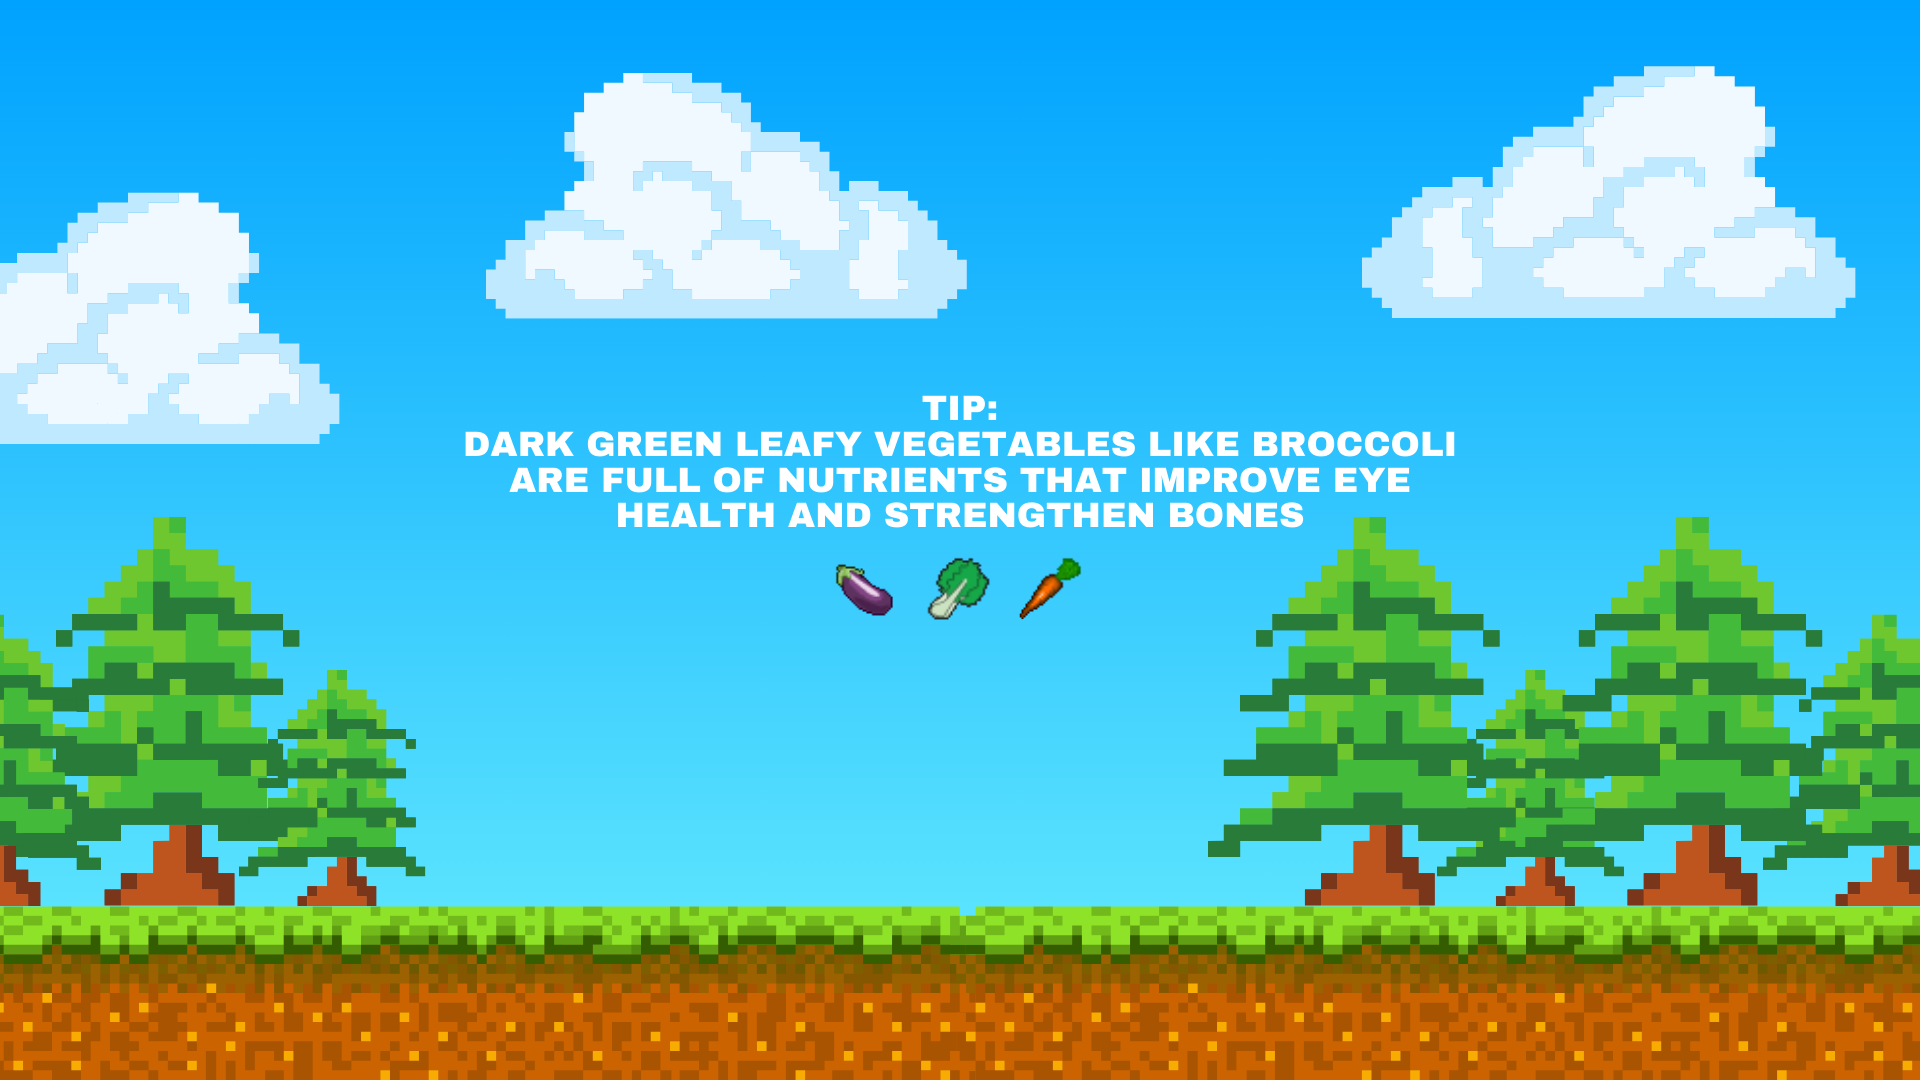
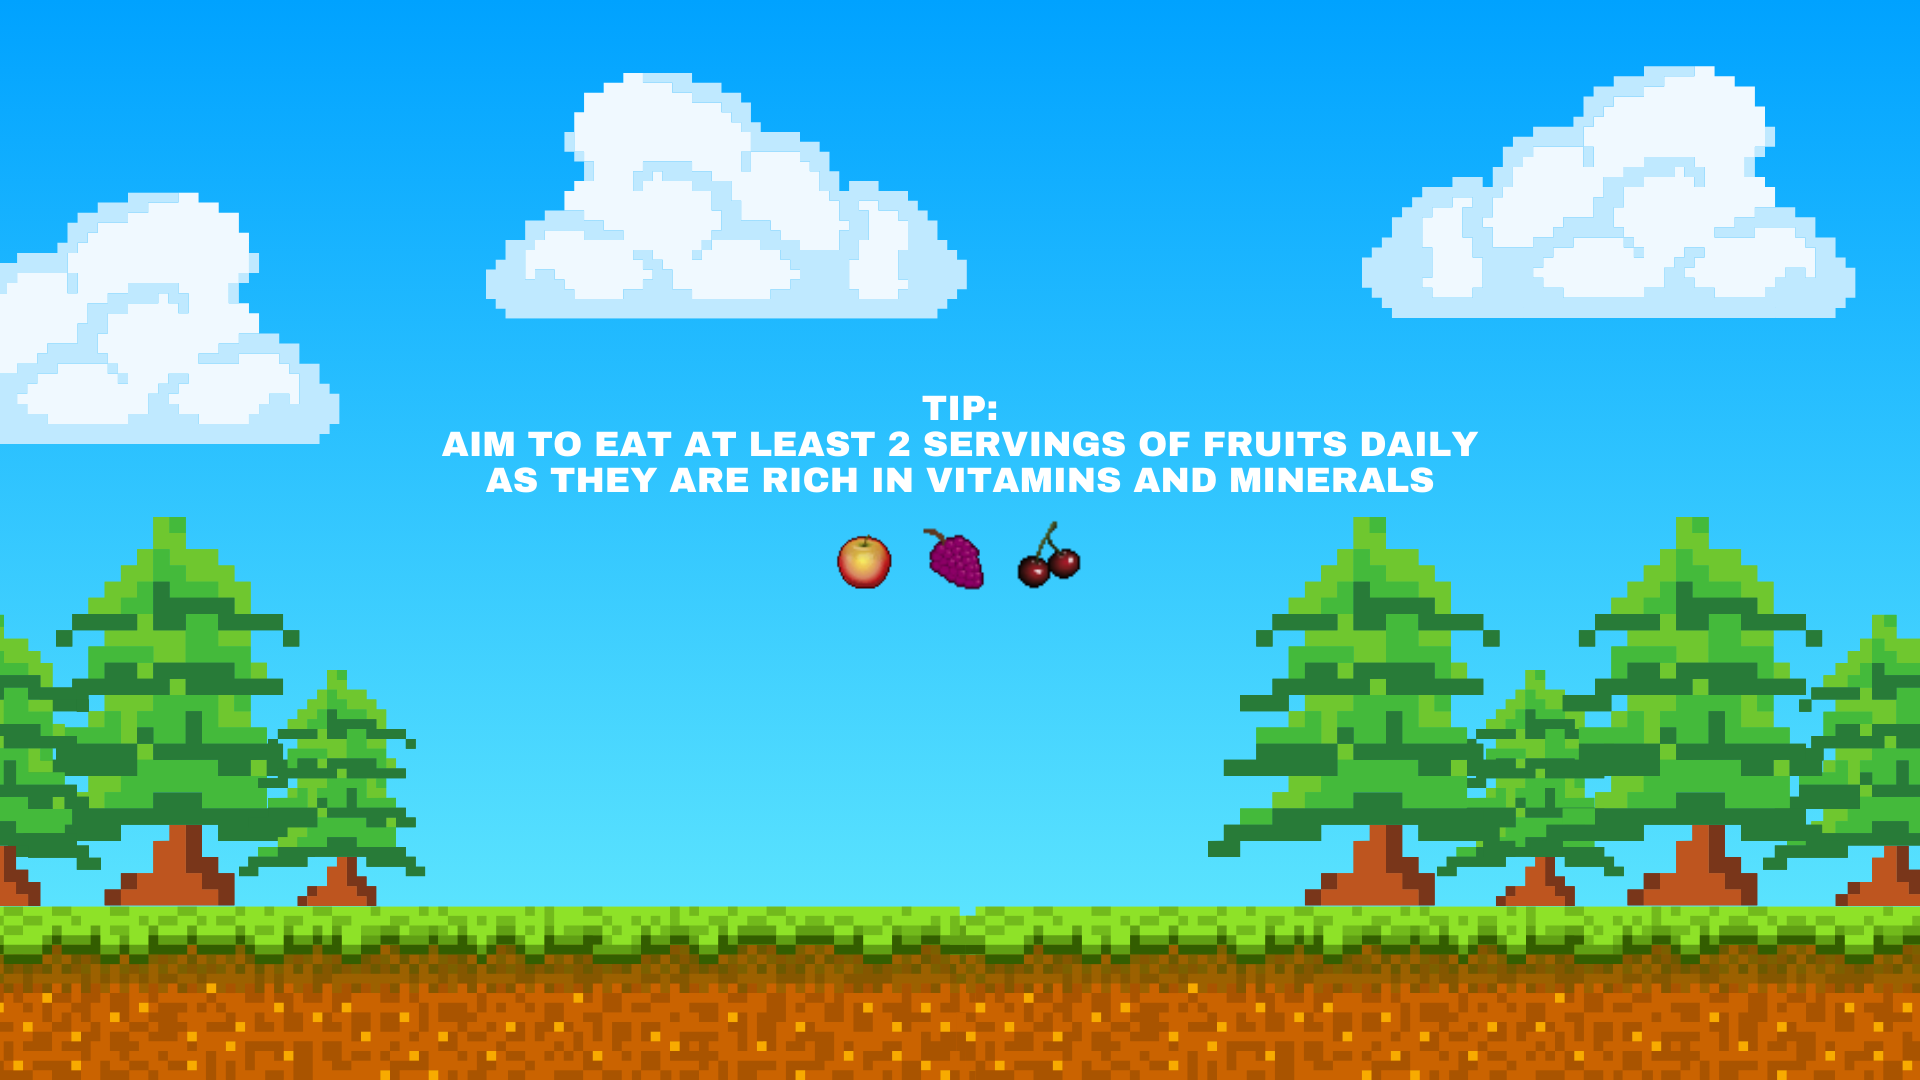
Game Logic + Adjustment
Added game logic for gameScene4, swaped tooltips position

Changed region(s): [[0.2188, 0.3972, 0.7812, 0.5806]]

diff --git a/desktop/src/gameLayer/playerOne.java b/desktop/src/gameLayer/playerOne.java
@@ -1,5 +1,7 @@
 package gameLayer;
 
+import java.util.ArrayList;
+
 import com.badlogic.gdx.Input.Keys;
 import com.badlogic.gdx.graphics.Texture;
 import com.mygdx.game.Player;
@@ -7,40 +9,39 @@ import com.mygdx.game.SceneManager;
 import com.mygdx.game.iCollider;
 
 public class playerOne extends Player {
-	
-private boolean isMouthOpen = false; // New attribute to track the mouth state
-private float animationTimer = 0; // Timer to control animation state change
-private float animationInterval = 0.25f; // Interval in seconds to change mouth state
-private Texture upOpen, downOpen, leftOpen, rightOpen; // Open mouth Textures for the player
-private Texture closedMouthTexture;
-private SceneManager sceneManager;
-	
-	public playerOne(String baseTexturePath, String closedMouthPath, float x, float y, float s , int hp, SceneManager sceneManager)
-	{
-		super(closedMouthPath, x, y, s , hp);
-	    this.closedMouthTexture = this.getTex(); //initial texture is closed mouth
-	    
-	    //load directional textures
-	    this.upOpen = new Texture(baseTexturePath+ "Up.png");
-	    this.downOpen = new Texture(baseTexturePath + "Down.png");
+
+    private boolean isMouthOpen = false; // New attribute to track the mouth state
+    private float animationTimer = 0; // Timer to control animation state change
+    private float animationInterval = 0.25f; // Interval in seconds to change mouth state
+    private Texture upOpen, downOpen, leftOpen, rightOpen; // Open mouth Textures for the player
+    private Texture closedMouthTexture;
+    private SceneManager sceneManager;
+    ArrayList<Object> eatenFoodType = new ArrayList<Object>();
+
+    public playerOne(String baseTexturePath, String closedMouthPath, float x, float y, float s, int hp,
+            SceneManager sceneManager) {
+        super(closedMouthPath, x, y, s, hp);
+        this.closedMouthTexture = this.getTex(); // initial texture is closed mouth
+
+        // load directional textures
+        this.upOpen = new Texture(baseTexturePath + "Up.png");
+        this.downOpen = new Texture(baseTexturePath + "Down.png");
         this.leftOpen = new Texture(baseTexturePath + "Left.png");
         this.rightOpen = new Texture(baseTexturePath + "Open.png");
-        this.sceneManager = sceneManager;        
-	}
-	
+        this.sceneManager = sceneManager;
+        
+    }
 
-	public void UserEntityMovement() {
+    public void UserEntityMovement() {
         handleInput(); // Handle direction changes based on input
         moveBasedOnDirection();
     }
-	
-    
-   
-	@Override
+
+    @Override
     public void update(float deltaTime) {
         animationTimer += deltaTime;
 
-        if(animationTimer >= animationInterval) {
+        if (animationTimer >= animationInterval) {
             isMouthOpen = !isMouthOpen;
             animationTimer = 0;
             updateTexture();
@@ -51,7 +52,7 @@ private SceneManager sceneManager;
         Texture newTexture;
         if (isMouthOpen) {
             // Select the correct open texture based on direction
-            switch (getCurrentDirection()) { //get the current direction from sueperclass
+            switch (getCurrentDirection()) { // get the current direction from sueperclass
                 case Keys.UP:
                     newTexture = upOpen;
                     break;
@@ -74,28 +75,28 @@ private SceneManager sceneManager;
         }
         this.setTex(newTexture);
     }
-    
-    //collide with unhealthy food
+
+    // collide with unhealthy food
     public void checkCollision(iCollider other) {
         String currentScene = sceneManager.getCurrentSceneName();
 
         if (other instanceof UnhealthyFood) {
             this.setHealth(this.getHealth() - 1);
-        } 
-        else if (other instanceof AIEnemy) {
+        } else if (other instanceof AIEnemy) {
             this.setHealth(this.getHealth() - 3);
-        } 
-        else if ("gameScene1".equals(currentScene) && other instanceof Protein){        	
+        } else if ("gameScene1".equals(currentScene) && other instanceof Protein) {
             this.setScore(this.getScore() + 1);
-        }
-        else if ("gameScene2".equals(currentScene) && other instanceof Vegetable){
+        } else if ("gameScene2".equals(currentScene) && other instanceof Vegetable) {
             this.setScore(this.getScore() + 1);
-        }
-        else if ("gameScene3".equals(currentScene) && other instanceof Fruits){
+        } else if ("gameScene3".equals(currentScene) && other instanceof Fruits) {
             this.setScore(this.getScore() + 1);
-        }
-        else if ("gameScene4".equals(currentScene) && other instanceof Fruits || other instanceof Vegetable || other instanceof Protein){
-            this.setScore(this.getScore() + 1);
+        } else if ("gameScene4".equals(currentScene)) {
+            if ((other instanceof Protein && !eatenFoodType.contains(Protein.class)) ||
+                (other instanceof Vegetable && !eatenFoodType.contains(Vegetable.class)) ||
+                (other instanceof Fruits && !eatenFoodType.contains(Fruits.class))) {
+                this.setScore(this.getScore() + 1);
+                eatenFoodType.add(other.getClass());
+            }
         }
     }
 }

diff --git a/desktop/src/gameLayer/Food.java b/desktop/src/gameLayer/Food.java
@@ -29,16 +29,16 @@ public class Food extends Entity{
 		
 	}
 	
-	public void checkCollision(iCollider other)
-	{
-		if (other instanceof Player) {
-            setEaten(); // Mark this food for removal upon collision with a player
-        }
-	}
+		public void checkCollision(iCollider other)
+		{
+			if (other instanceof Player) {
+				setEaten(); // Mark this food for removal upon collision with a player
+			}
+		}
 
-	public boolean isEaten() {
-		return eaten;
-	}
+		public boolean isEaten() {
+			return eaten;
+		}
 
 	public void setEaten() {
 		this.eaten = true;

diff --git a/desktop/src/gameLayer/GameScreen.java b/desktop/src/gameLayer/GameScreen.java
@@ -35,7 +35,7 @@ public class GameScreen extends Scene {
         this.ioManager = im;
 		this.playerManager.addPlayers(new playerOne("playerSkin/", "playerSkin/Close.png", 100, 200, 100, 3, game));
 		this.spawnManager.loadEntity();
-		
+		this.spawnManager.spawnEntityList();
 
 
 
